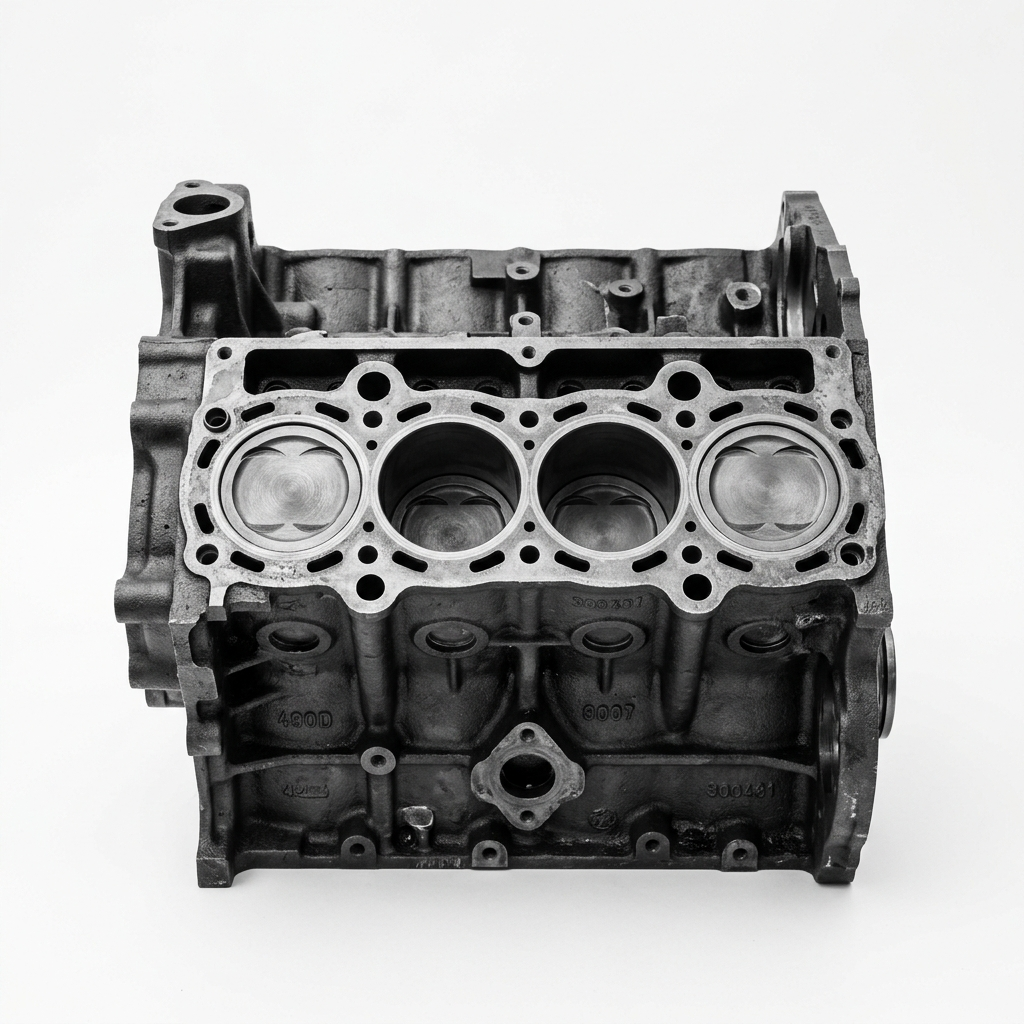
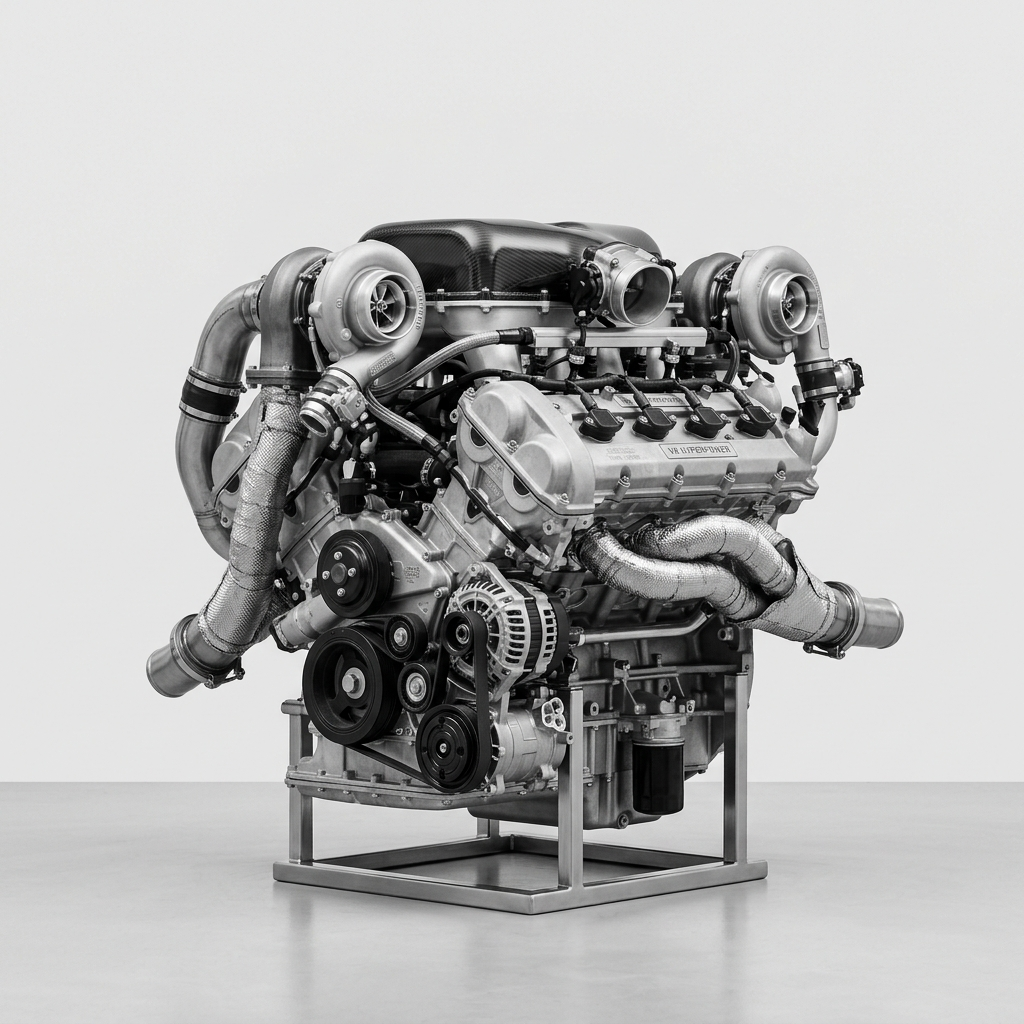
style: augment structural distancing by 20px and introduce completed V8 engine and Porsche steering wheel high fidelity images

diff --git a/src/components/Section14.jsx b/src/components/Section14.jsx
@@ -35,7 +35,7 @@ export default function Section14({ isActive }) {
                     ></div>
 
                     {/* Left Box (The Engine) */}
-                    <div className="flex-1 flex flex-col justify-center items-end text-right pr-0 md:pr-16 lg:pr-24 xl:pr-32 2xl:pr-40 py-10 md:py-0">
+                    <div className="flex-1 flex flex-col justify-center items-end text-right pr-0 md:pr-[84px] lg:pr-[116px] xl:pr-[148px] 2xl:pr-[180px] py-10 md:py-0">
                         <span className={`text-[#86868b] font-semibold text-[13px] md:text-[14px] tracking-[0.2em] uppercase mb-6 md:mb-8 transition-all duration-1000 ease-out delay-[0ms] ${step >= 2 ? 'opacity-100 translate-y-0' : 'opacity-0 translate-y-6'}`}>
                             Definition / 01
                         </span>
@@ -67,7 +67,7 @@ export default function Section14({ isActive }) {
                     <div className={`md:hidden w-full h-[1px] bg-black/10 my-4 transition-transform duration-1000 origin-left ${step >= 1 ? 'scale-x-100' : 'scale-x-0'}`}></div>
 
                     {/* Right Box (The Steering Wheel) */}
-                    <div className="flex-1 flex flex-col justify-center items-start text-left pl-0 md:pl-16 lg:pl-24 xl:pl-32 2xl:pl-40 py-10 md:py-0 overflow-visible w-full max-w-full">
+                    <div className="flex-1 flex flex-col justify-center items-start text-left pl-0 md:pl-[84px] lg:pl-[116px] xl:pl-[148px] 2xl:pl-[180px] py-10 md:py-0 overflow-visible w-full max-w-full">
                         <span className={`text-[#86868b] font-semibold text-[13px] md:text-[14px] tracking-[0.2em] uppercase mb-6 md:mb-8 transition-all duration-1000 ease-out delay-[200ms] ${step >= 2 ? 'opacity-100 translate-y-0' : 'opacity-0 translate-y-6'}`}>
                             Definition / 02
                         </span>